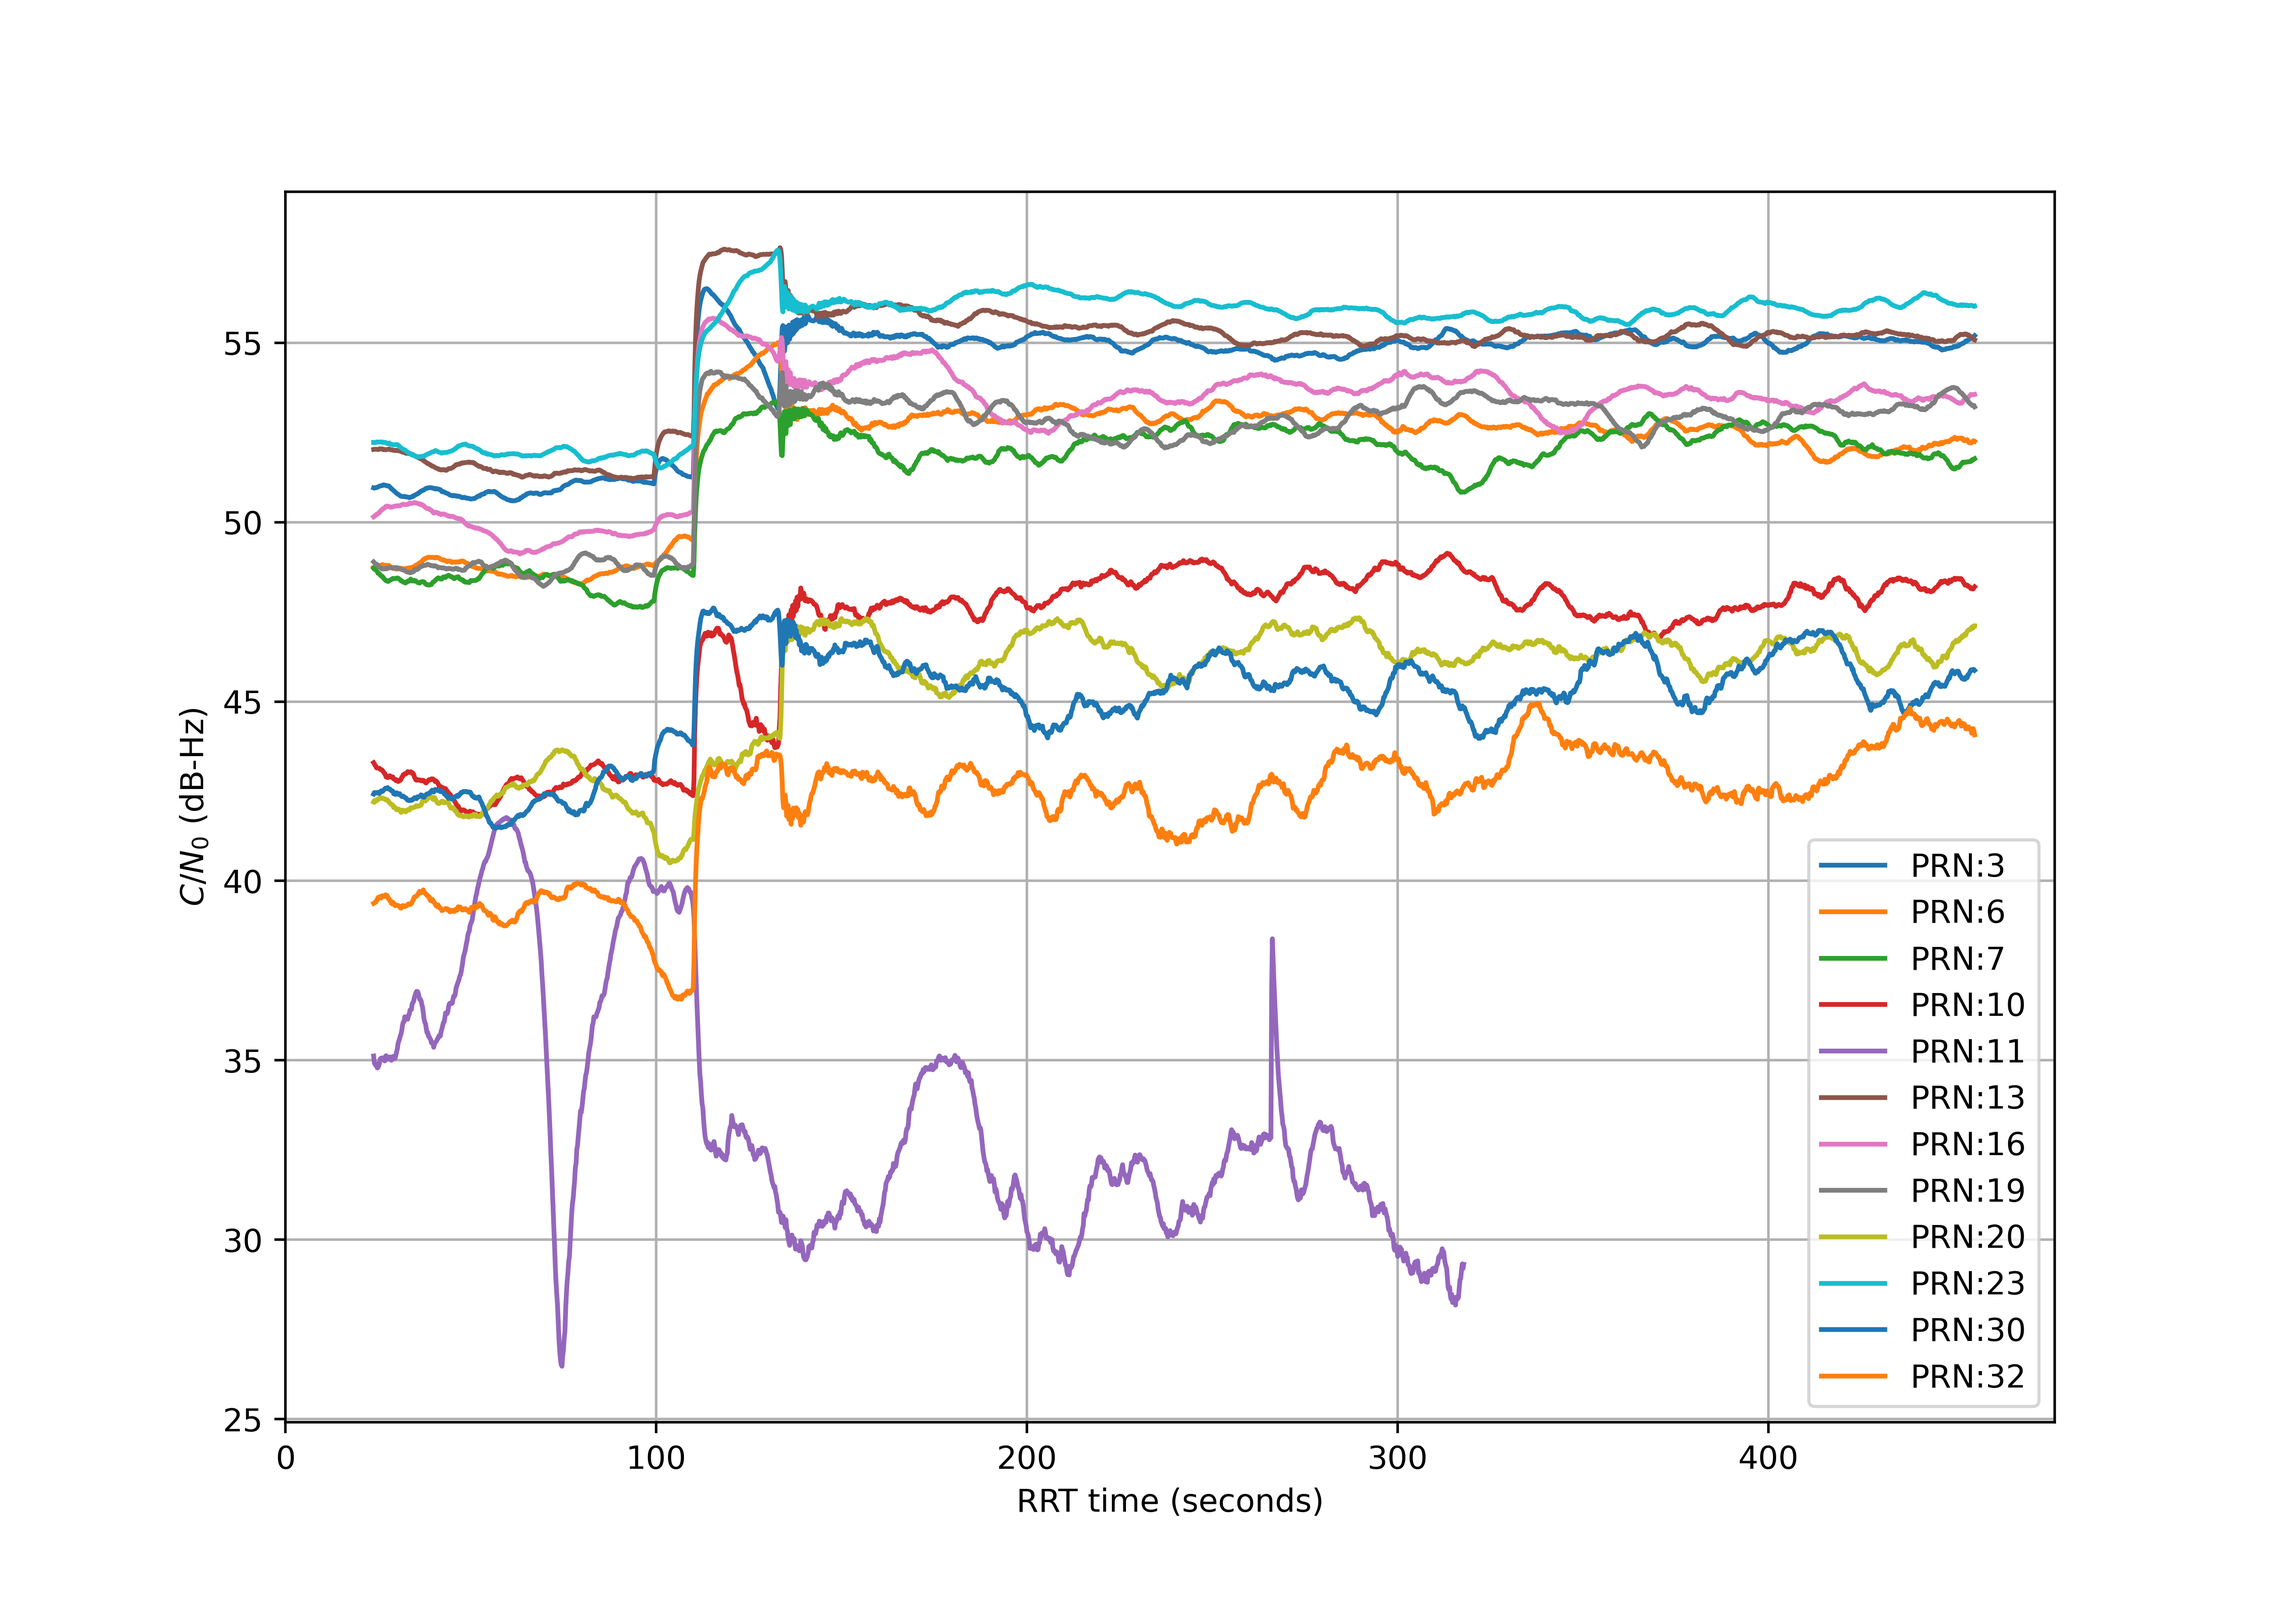
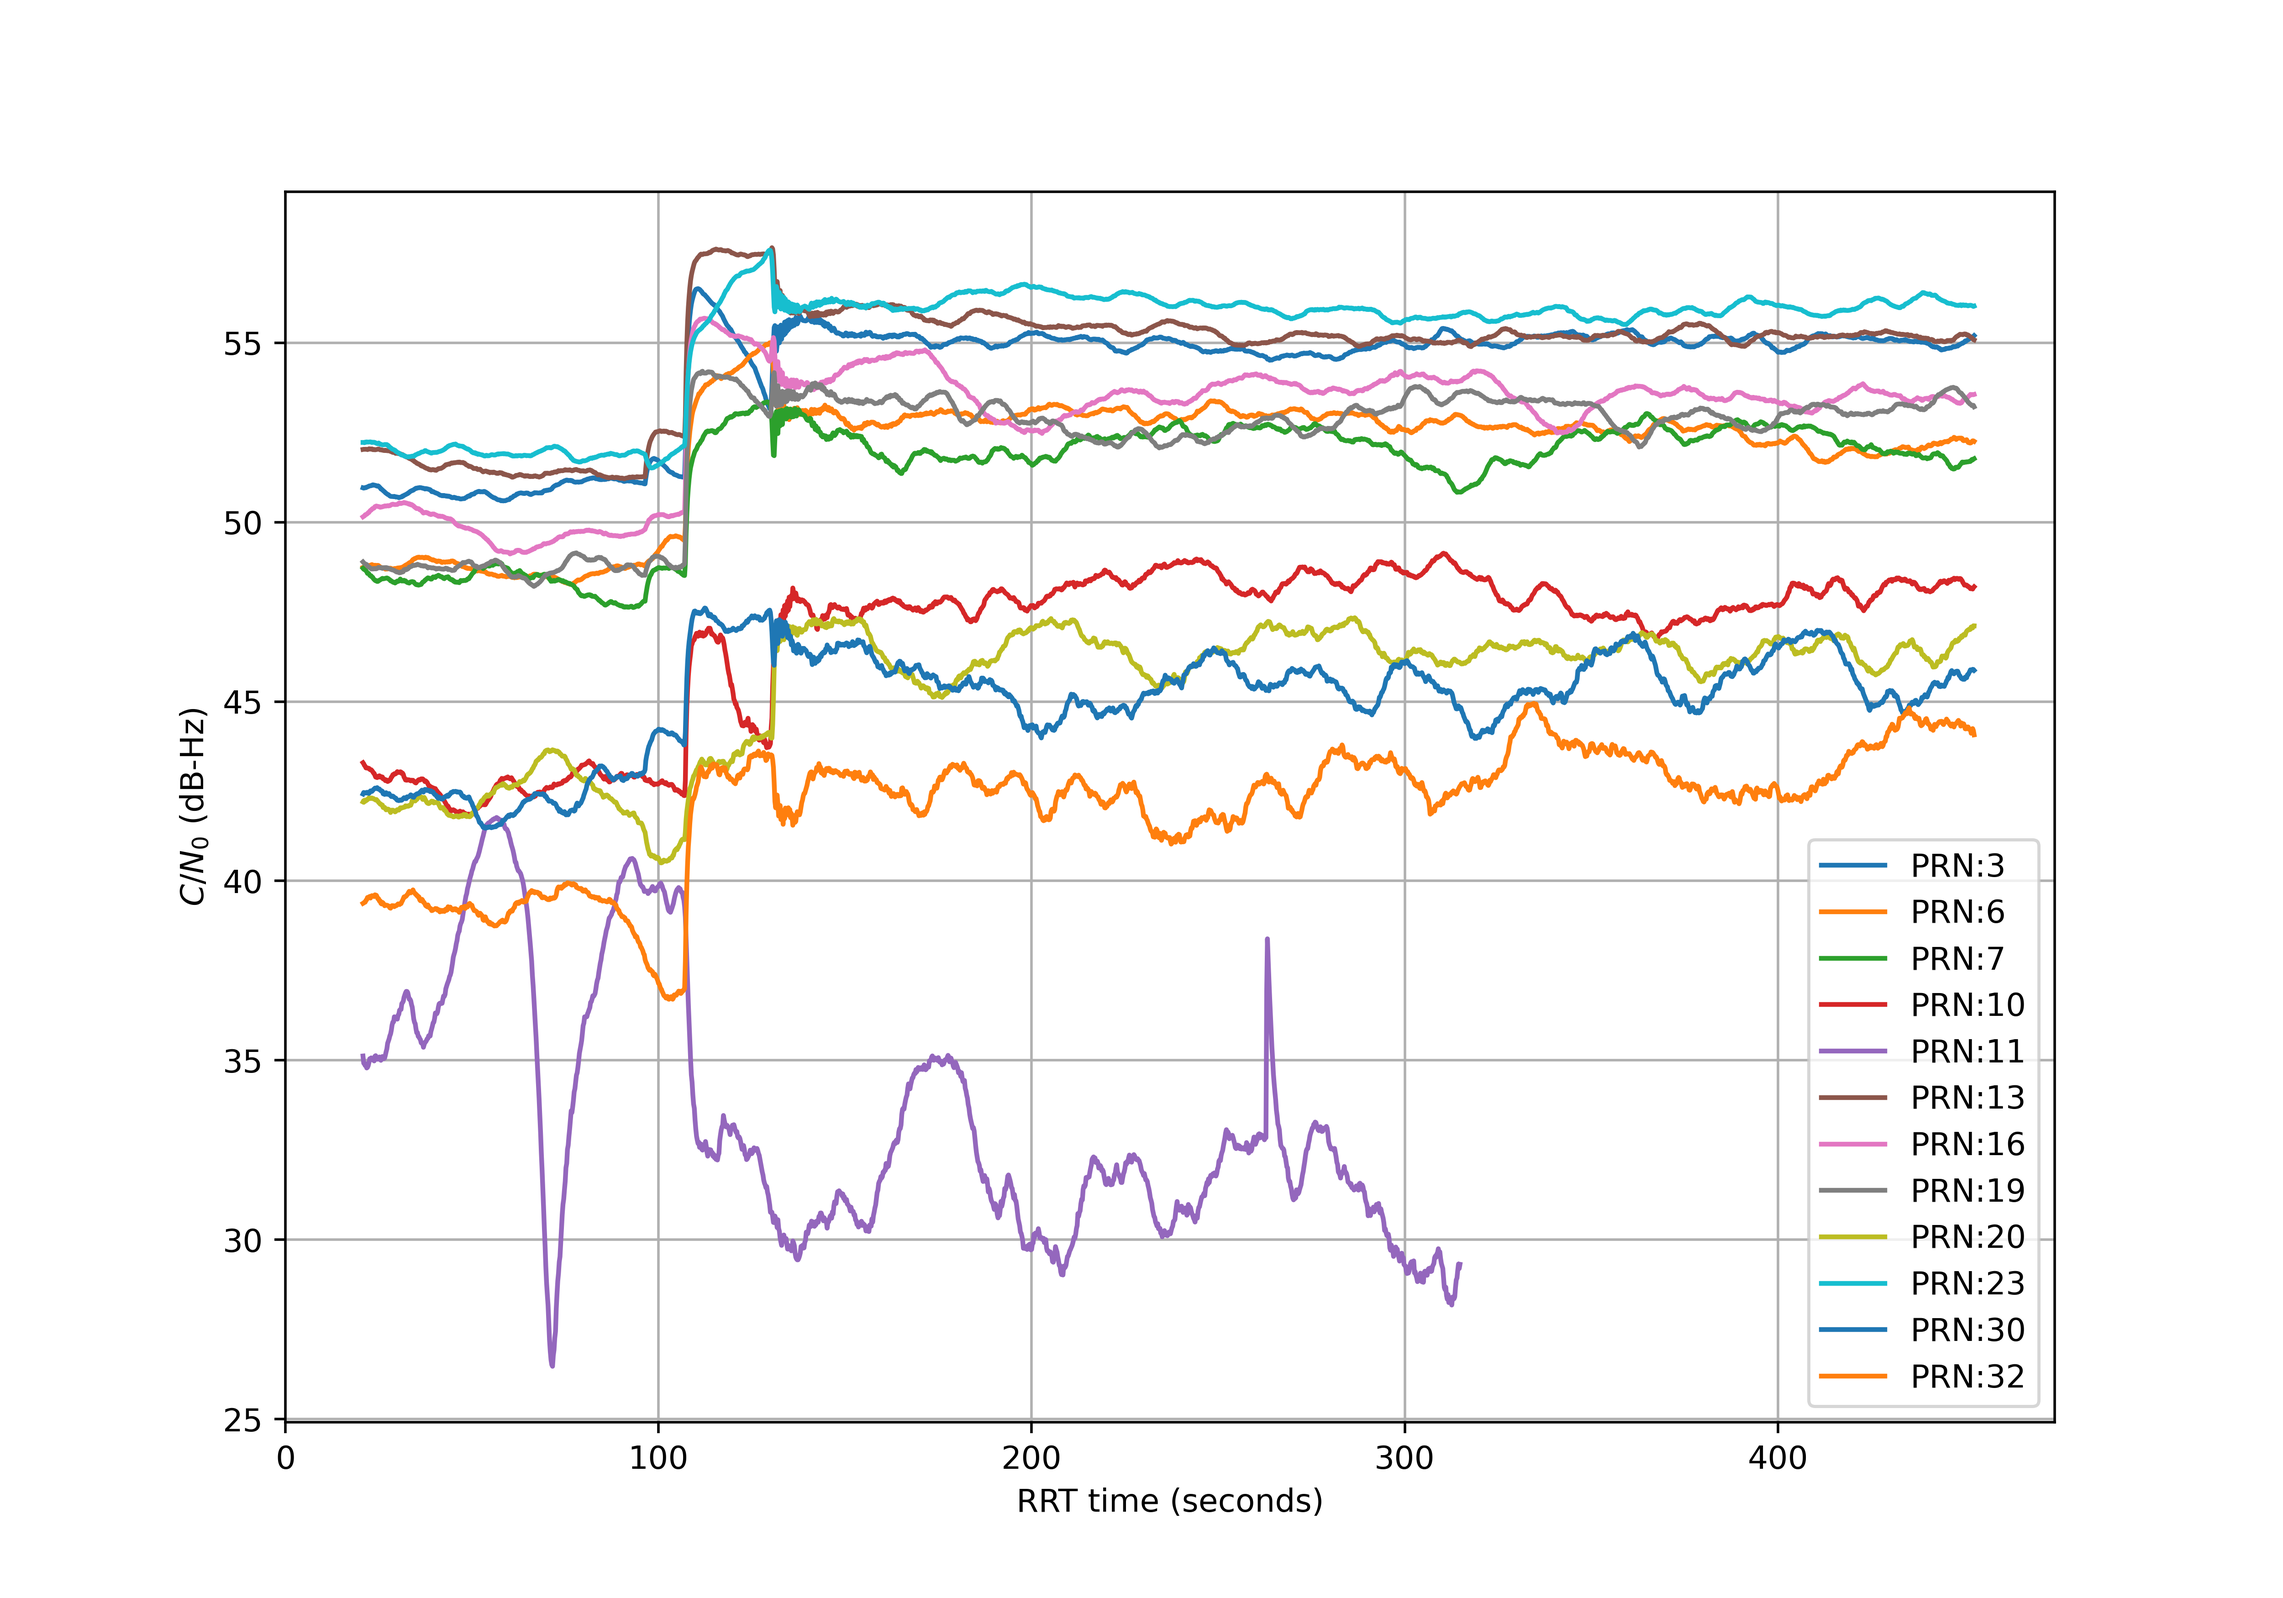
time offset?

diff --git a/scripts/parsing.py b/scripts/parsing.py
@@ -100,10 +100,18 @@ def channel_parse(inputfilename):
     df = pd.DataFrame(data.T, columns = colmn_names)
     df = df.astype(typ)
 
+    data_set = inputfilename.split('/')[1]
+
+    if data_set == 'ds2':
+        df = df[df['RRTseconds']>=2.99691752].reset_index(drop=True)
+        df['RRTseconds'] = df['RRTseconds']-df['RRTseconds'][0]
+    if data_set == 'ds3':
+        df = df[df['RRTseconds']>=2.20332084].reset_index(drop=True)
+        df['RRTseconds'] = df['RRTseconds']-df['RRTseconds'][0]
+
     #need to take out invalid offset receiver time
     df = df[df['ORTweek']<9999].reset_index(drop=True)
 
-    data_set = inputfilename.split('/')[1]
     fig = plt.figure(dpi = 500, figsize =[10 ,7])
     for prn in df['TXID'].unique():
         if prn<=32:
@@ -362,6 +370,6 @@ if __name__ == '__main__':
 # plt.xlim(0)
 # plt.grid()
 # plt.xlabel('RRT time (seconds)')
-# plt.ylabel('$Power$ (dB)')
+# plt.ylabel('Normalized Power (dB)')
 # plt.legend()
 # fig.savefig('figures/comparison/power.png')
